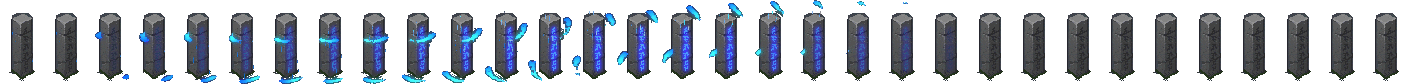
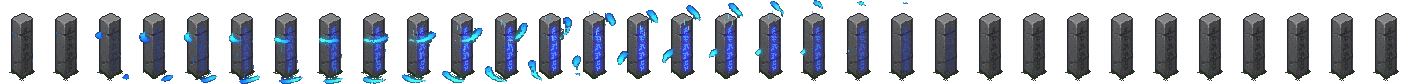
비석 윗면 외곽선 1줄로 깔끔하게 + 바닥 그림자 위로·크게
Claude-Session: https://claude.ai/code/session_014SGSimD7M4fwNwdKAk5xS3

Changed region(s): [[0.0, 0.1429, 1.0, 0.2143]]

diff --git a/client/game.js b/client/game.js
@@ -279,7 +279,7 @@
     const ob = ART.x_obelisk; let top = y - 60, bx = x - 32 + sx, bw = 64, bh = 64;
     if (ob) { const n0 = 32, fw0 = ob.width / n0; if (!OBSIL.c) { const c = document.createElement('canvas'); c.width = fw0; c.height = ob.height; const q = c.getContext('2d'); q.drawImage(ob, 0, 0, fw0, ob.height, 0, 0, fw0, ob.height); q.globalCompositeOperation = 'source-in'; q.fillStyle = '#000'; q.fillRect(0, 0, fw0, ob.height); OBSIL.c = c; } // 비석 그림자 (해 방향 따라)
       const [sk, len, al] = sunShadow(); g.save(); g.globalAlpha = al; g.translate(x + sx, y + 6); g.transform(1, 0, sk, len, 0, 0); g.scale(1, -1); g.drawImage(OBSIL.c, -44, -156, fw0 * 2, ob.height * 2); g.restore();
-      g.fillStyle = 'rgba(0,0,0,0.28)'; ell(g, x + sx, y + 4, 26, 7); }
+      g.fillStyle = 'rgba(0,0,0,0.28)'; ell(g, x + sx, y - 1, 32, 9); }
     if (ob) { const n = 32, fw = ob.width / n, fo = Math.floor(performance.now() / 80 + t.id * 5) % n; bw = fw * 2; bh = ob.height * 2; bx = x - 44 + sx; top = y + 6 - 156; g.drawImage(ob, fo * fw, 0, fw, ob.height, bx, top, bw, bh); } /* 2배로 크게 */ // 수정 대신 룬 비석
     else g.drawImage(altarSheet(t.type), f * 32, 0, 32, 32, x - 32 + sx, y - 60, 64, 64);
     const hn = HITN.get(t.id); // 내가 때린 횟수
